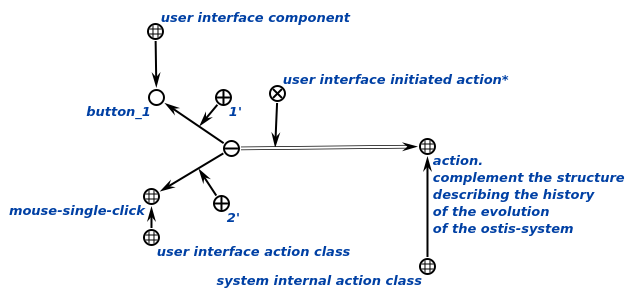
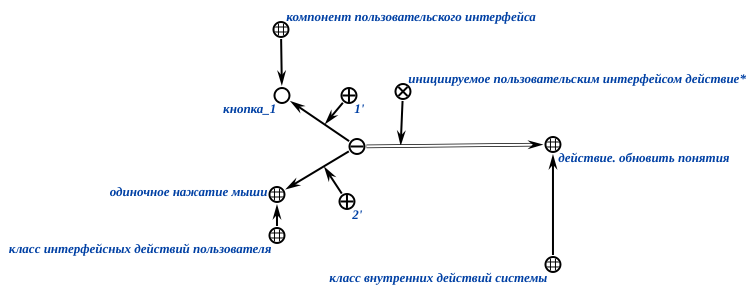
fix(chapter2): SD of ui actions updated

Changed region(s): [[0.0, 0.0306, 0.989, 0.9796], [0.4495, 0.6429, 0.4795, 0.7347]]

diff --git a/Contents/chapter2/sd_ostis_tools/sd_ui/sd_user_interface_actions.tex b/Contents/chapter2/sd_ostis_tools/sd_ui/sd_user_interface_actions.tex
@@ -3,11 +3,21 @@
 \scnsectionheader{\currentname}
 
 \scnstartsubstruct
-	
+
+\scnheader{Предметная область интерфейсных действий пользователей}
+\scniselement{предметная область}
+\scnsdmainclass{интерфейсное действие пользователя}
+\scnsdclass{действие мышью;прокрутка мышью;прокрутка мышью вверх;прокрутка мышью вниз;наведение мышью;отпускание мышью;нажатие мыши;одиночное нажатие мыши;двойное нажатие мыши;жест мышью;отведение мышью;перетаскивание мышью;действие голосом;действие клавиатурой;нажатие функциональной клавиши;нажатие клавиши набора текста;действие осязанием;действие сенсором;нажатие сенсора;одиночное нажатие сенсора;двойное нажатие сенсора;жест по сенсору;жест по сенсору одним пальцем;жест по сенсору несколькими пальцами;отпускание сенсором;перетаскивание сенсором;действие пером;нажатие функциональной клавиши пером;рисование пером;написание текста пером}
+\scnsdrelation{инициируемое пользовательским интерфейсом действие*}
+\scnrelfrom{частная предметная область}{
+	Предметная область интерфейсных действий пользователей ostis-системы
+}
+
 \scnheader{интерфейсное действие пользователя}
 \scnaddlevel{1}
 \scnidtf{user interface action}
 \scnaddlevel{-1}
+\scnexplanation{Действие, выполняемое пользователем над некоторым \textit{компонентом пользовательского интерфейса}. Для связи данного действия с \textit{компонентом пользовательского интерфейса} и необходимым к выполнению \textit{внутренним действием системы} используется отношение \textit{инициируемое пользовательским интерфейсом действие*}}
 	\scnsuperset{действие мышью}
 	\scnaddlevel{1}
 	\scnidtf{mouse-action}
@@ -179,14 +189,17 @@
 \scnheader{действие пером}
 \scnexplanation{\textit{действие пером} -- интерфейсное действие пользователя, осуществляемое при помощи пера на графическом планшете.}
 
+\scnheader{класс интерфейсных действий пользователя}
+\scnexplanation{\textit{класс интерфейсных действий пользователя} -- множество, элементами которого являются классы \textit{интерфейсных действий пользователя}.}
+
 \scnheader{инициируемое пользовательским интерфейсом действие*}
+\scnexplanation{Используется для задания инициируемого при взаимодействии с пользовательским интерфейсом действия. Первым компонентом связки отношения \textit{инициируемое пользовательским интерфейсом действие*} является связка, элементами которой являются элемент множества компонентов пользовательского интерфейса и элемент множества \textit{класс интерфейсных действий пользователя}. Вторым компонентом является элемент множества \textit{класс внутренних действий системы}.}
 \scniselement{квазибинарное отношение}
 \scniselement{ориентированное отношение}
-\scnrelfrom{первый домен}{компонент пользовательского интерфейса $\cup$ user interface action class}
+\scnrelfrom{первый домен}{компонент пользовательского интерфейса $\cup$ класс интерфейсных действий пользователя}
 \scnrelfrom{второй домен}{класс внутренних действий системы}
 \scnrelfrom{иллюстрация}{
-	\scnfileimage{\includegraphics[width=1\linewidth]{figures/sd_ui/ui_initiated_action.png}}}
-
+	\scnfilescg{figures/sd_ui/ui_initiated_action.png}}}
 \scnendstruct \scnendcurrentsectioncomment
 
 \end{SCn}
